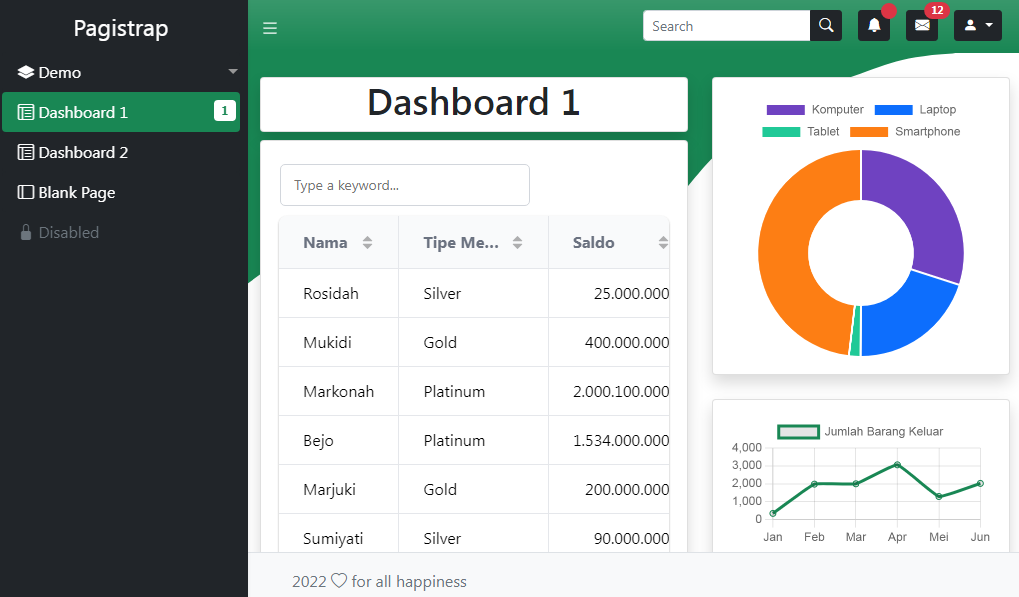
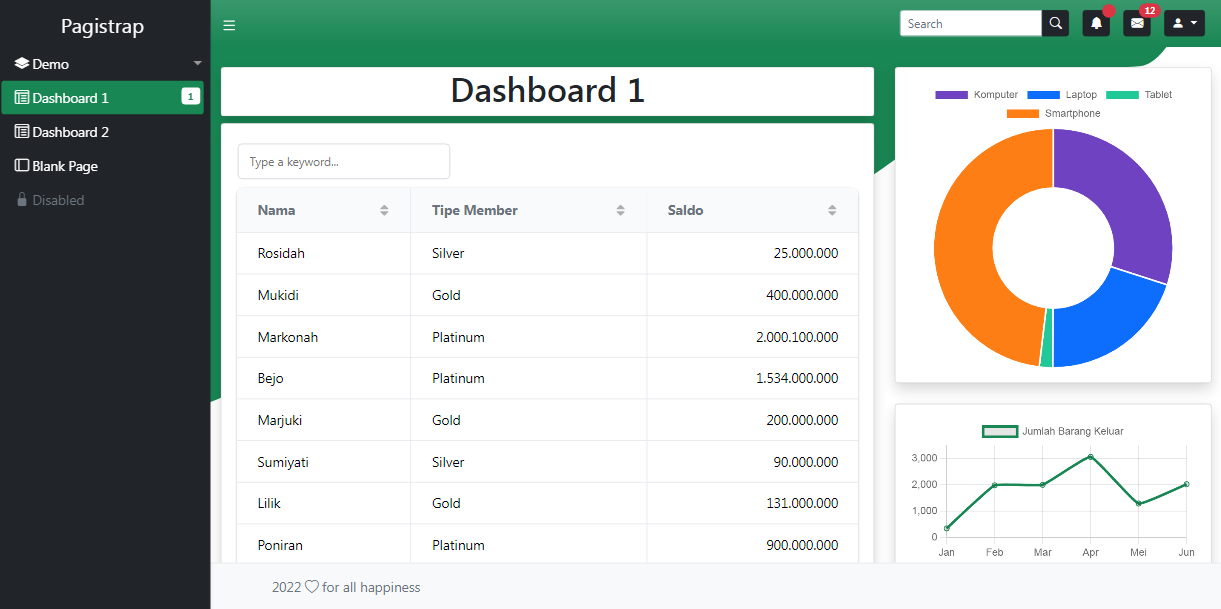
Menambah preview gambar dashboard 1 pada file README

diff --git a/README.md b/README.md
@@ -6,3 +6,7 @@ This template focuses on using Bootstrap version 5's default classes and utility
 ### Blank Page:
 Simple and ready-to-use page to start a new project.
 ![Blank Page pagistrap Bootstrap 5 template](https://github.com/mteguhpro/pagistrap/blob/main/preview/pagistrap_blank_page.PNG)
+
+### Dashboard 1:
+Admin dashboard with a simple and elegant design.
+![Dashboard 1 pagistrap Bootstrap 5 template](https://github.com/mteguhpro/pagistrap/blob/main/preview/pagistrap_dashboard_1.PNG)
